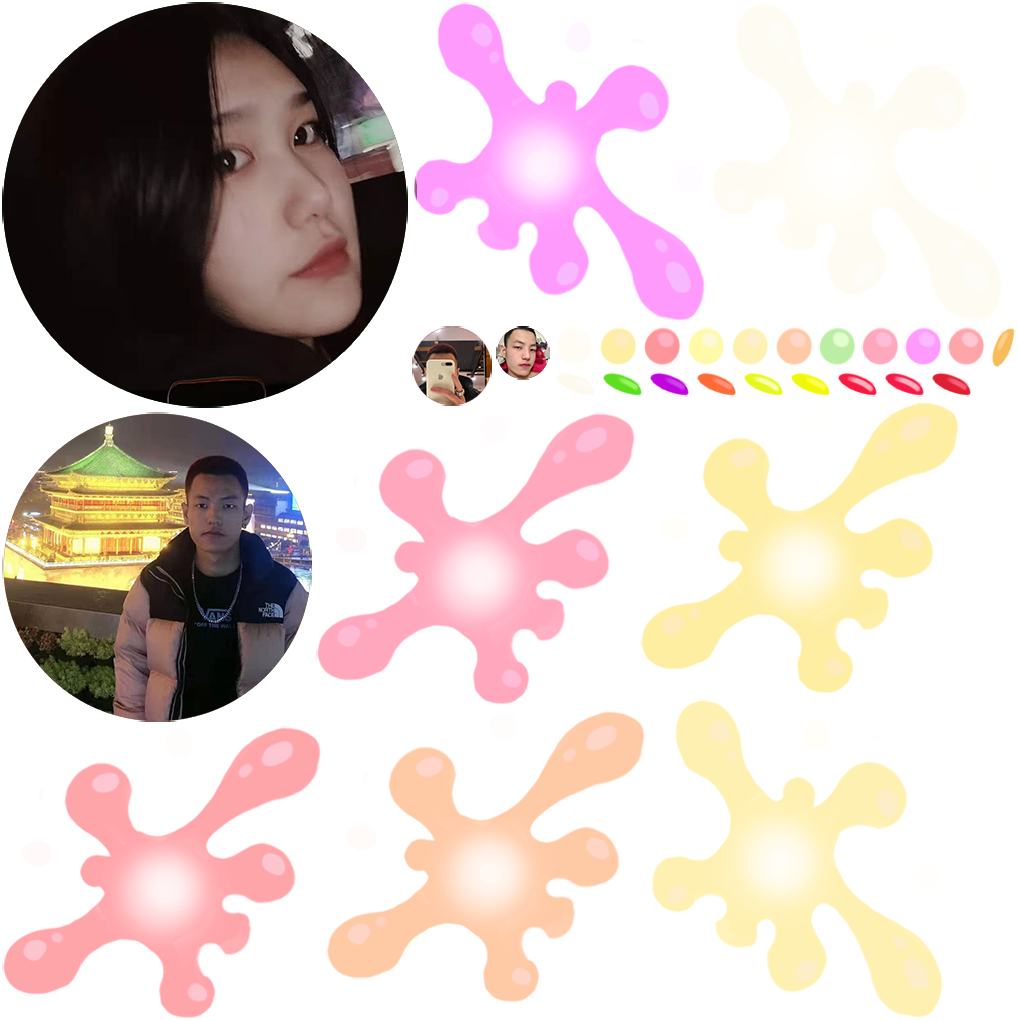
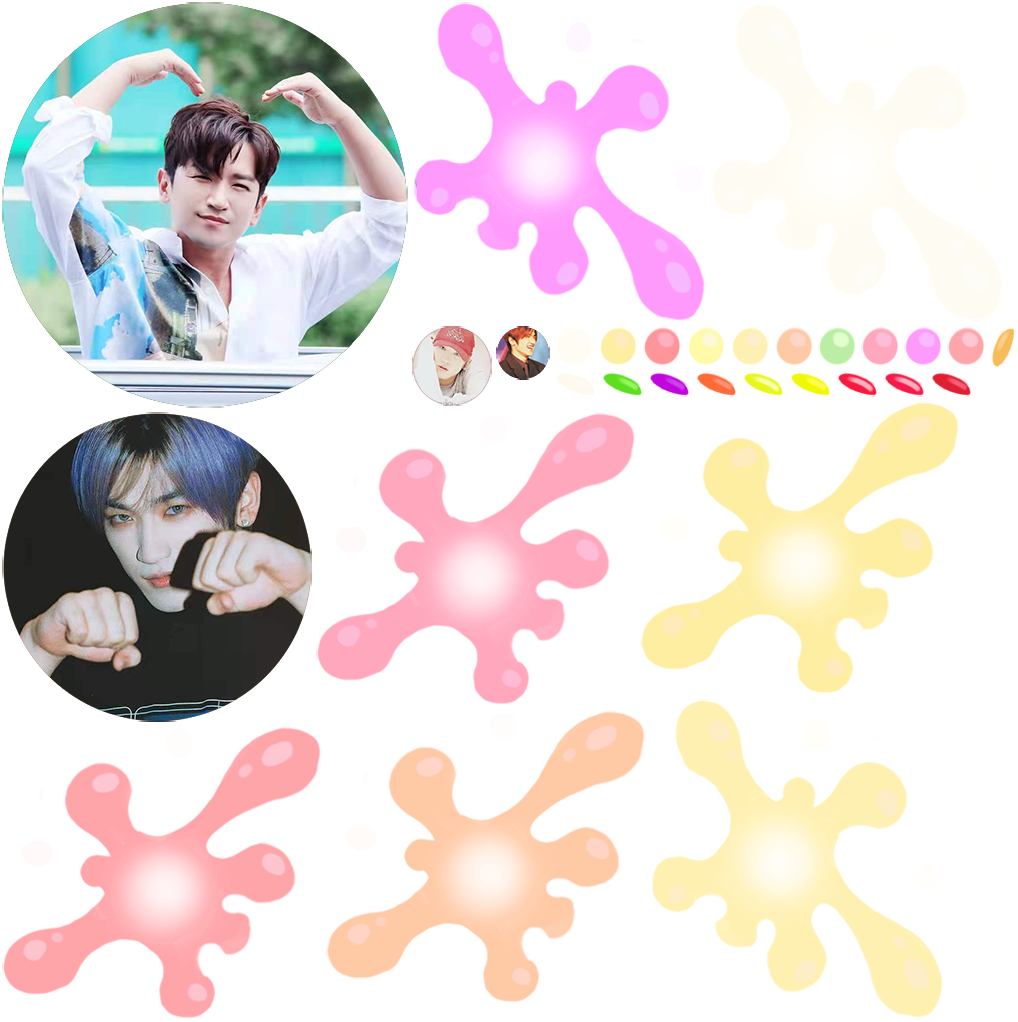
nitial commit

Changed region(s): [[0.0, 0.0, 0.4263, 0.728], [0.3959, 0.3033, 0.5481, 0.3943]]

diff --git a/index.html b/index.html
@@ -4,7 +4,7 @@
 <head>
     <meta charset="utf-8">
 
-    <title>合成梁毓寒</title>
+    <title>合成李米努</title>
 
     <!--http://www.html5rocks.com/en/mobile/mobifying/-->
     <meta name="viewport" content="width=device-width,user-scalable=no,initial-scale=1, minimum-scale=1,maximum-scale=1" />
@@ -109,7 +109,7 @@
             //        console.log("window.navigator.language",window.navigator.language);
 
             if (window.navigator.language == "zh-CN" || window.navigator.language == "zh-cn") {
-                document.title = "合成梁毓寒";
+                document.title = "合成李米努";
             } 
 
 
